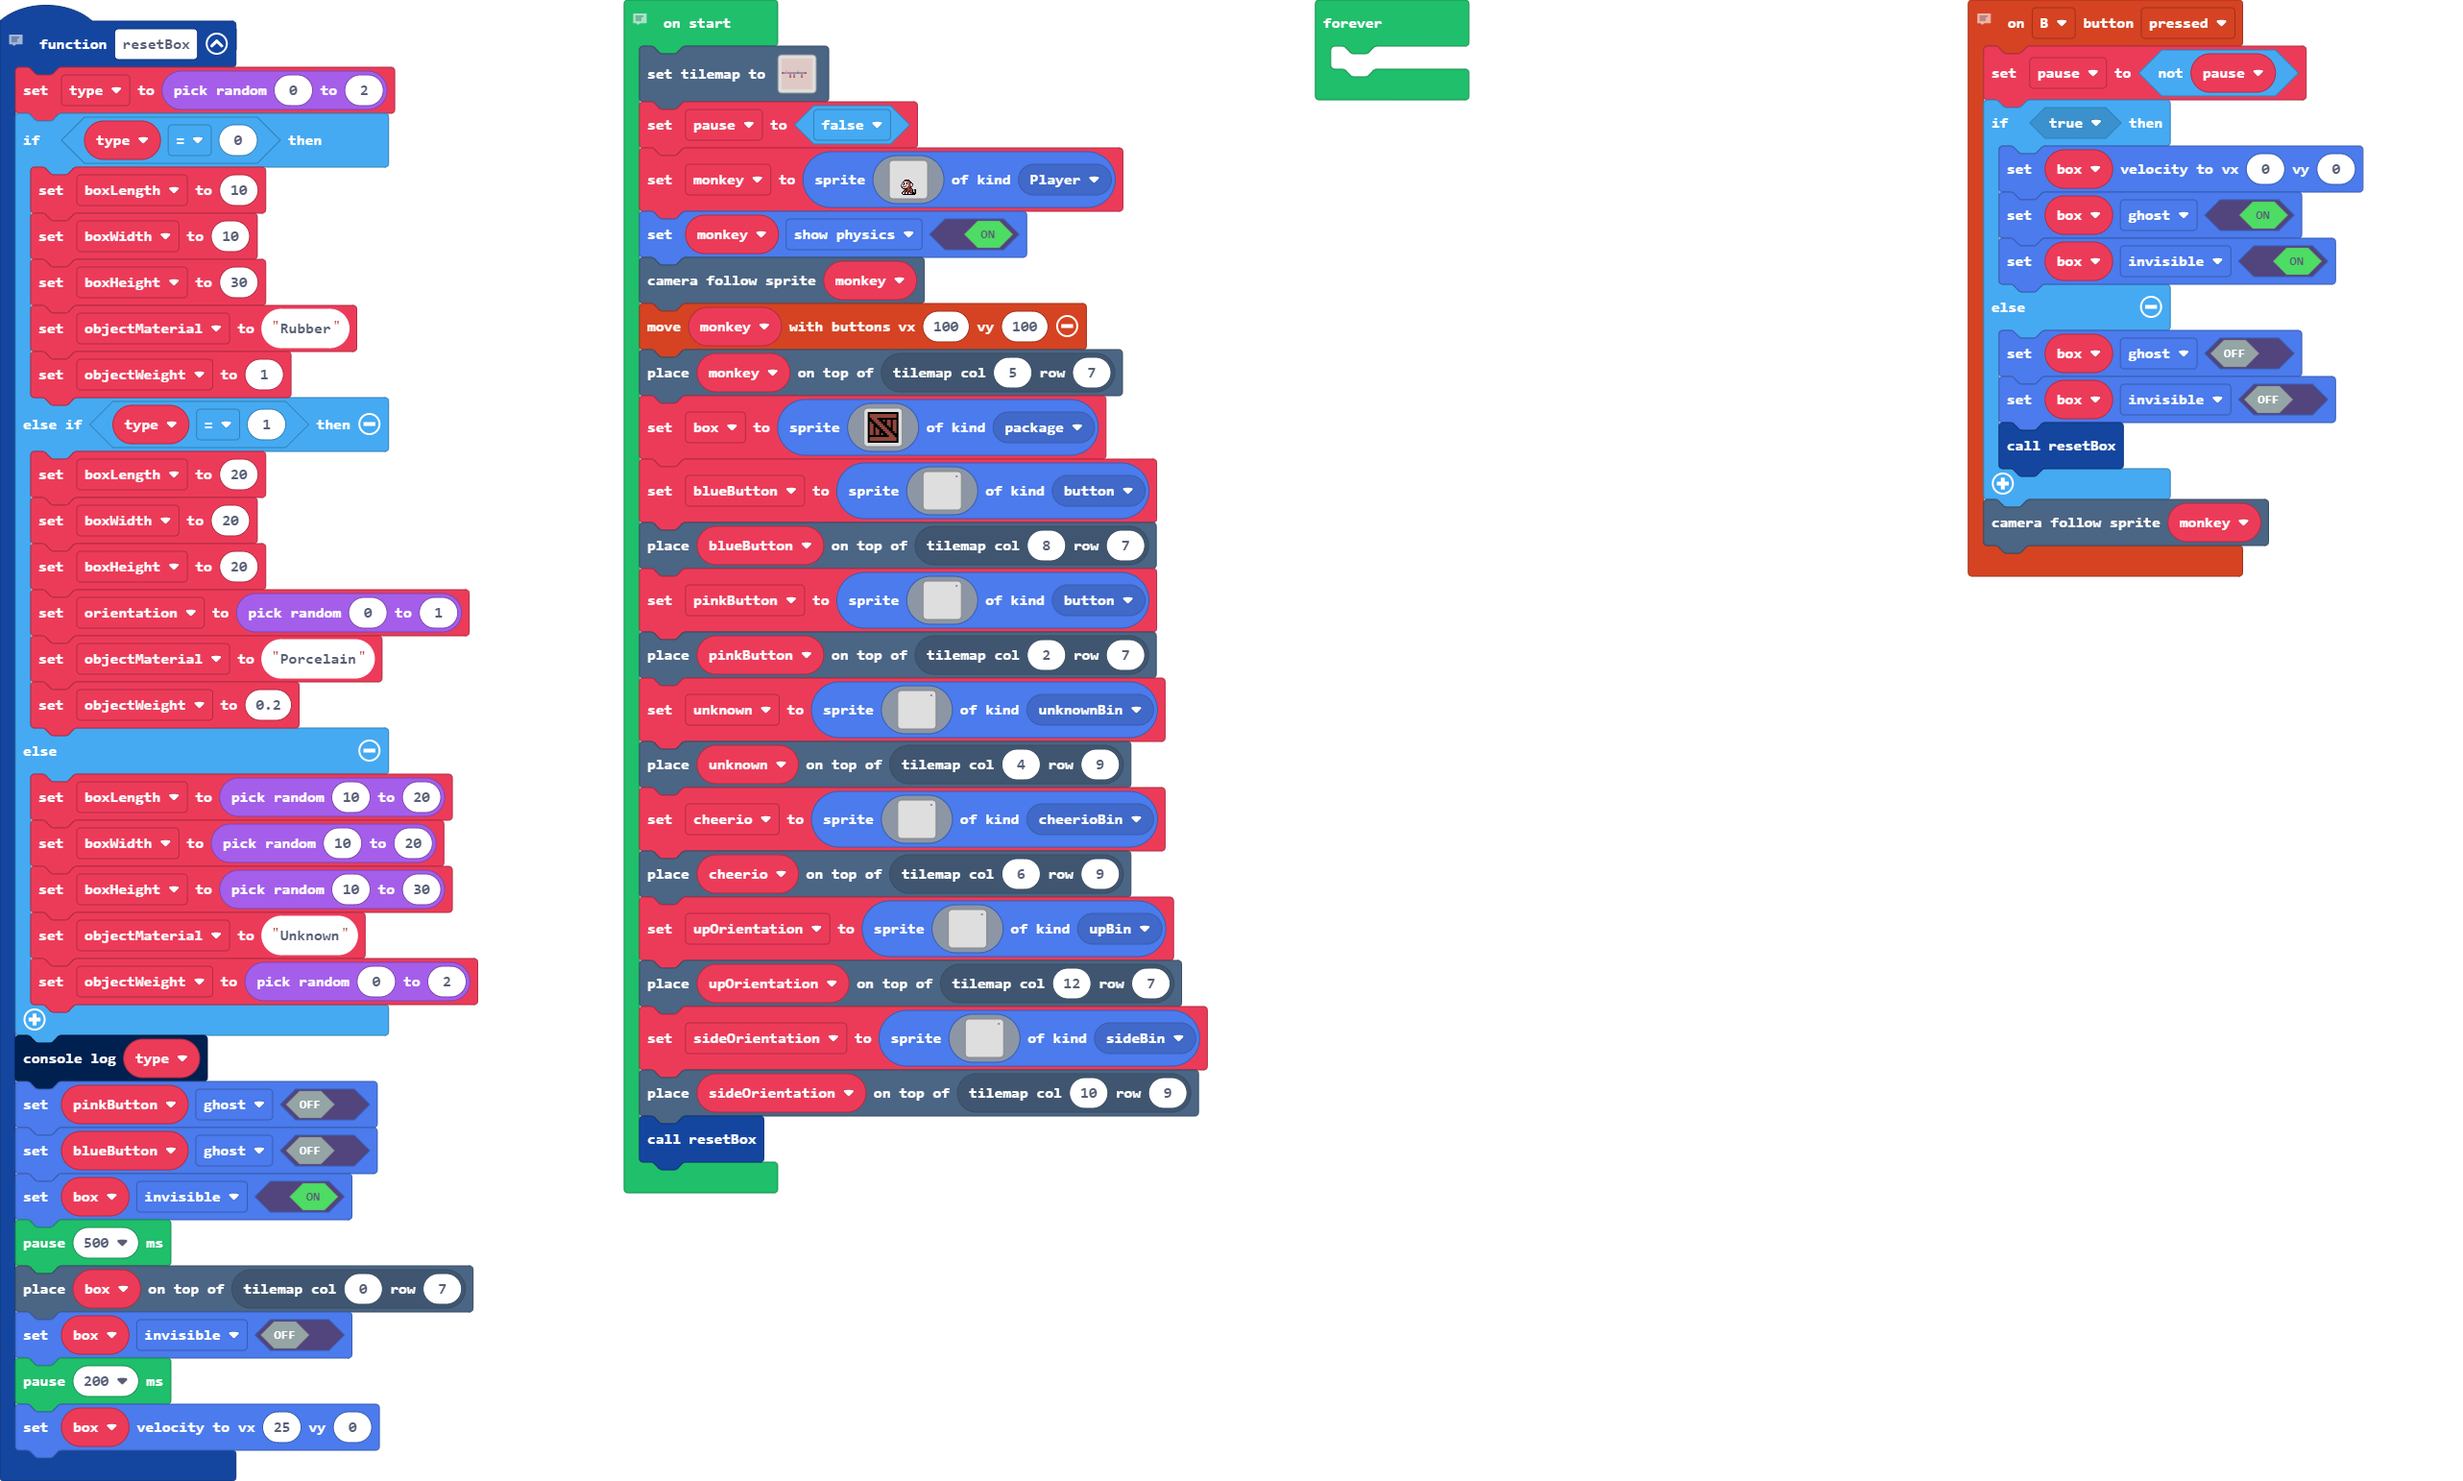
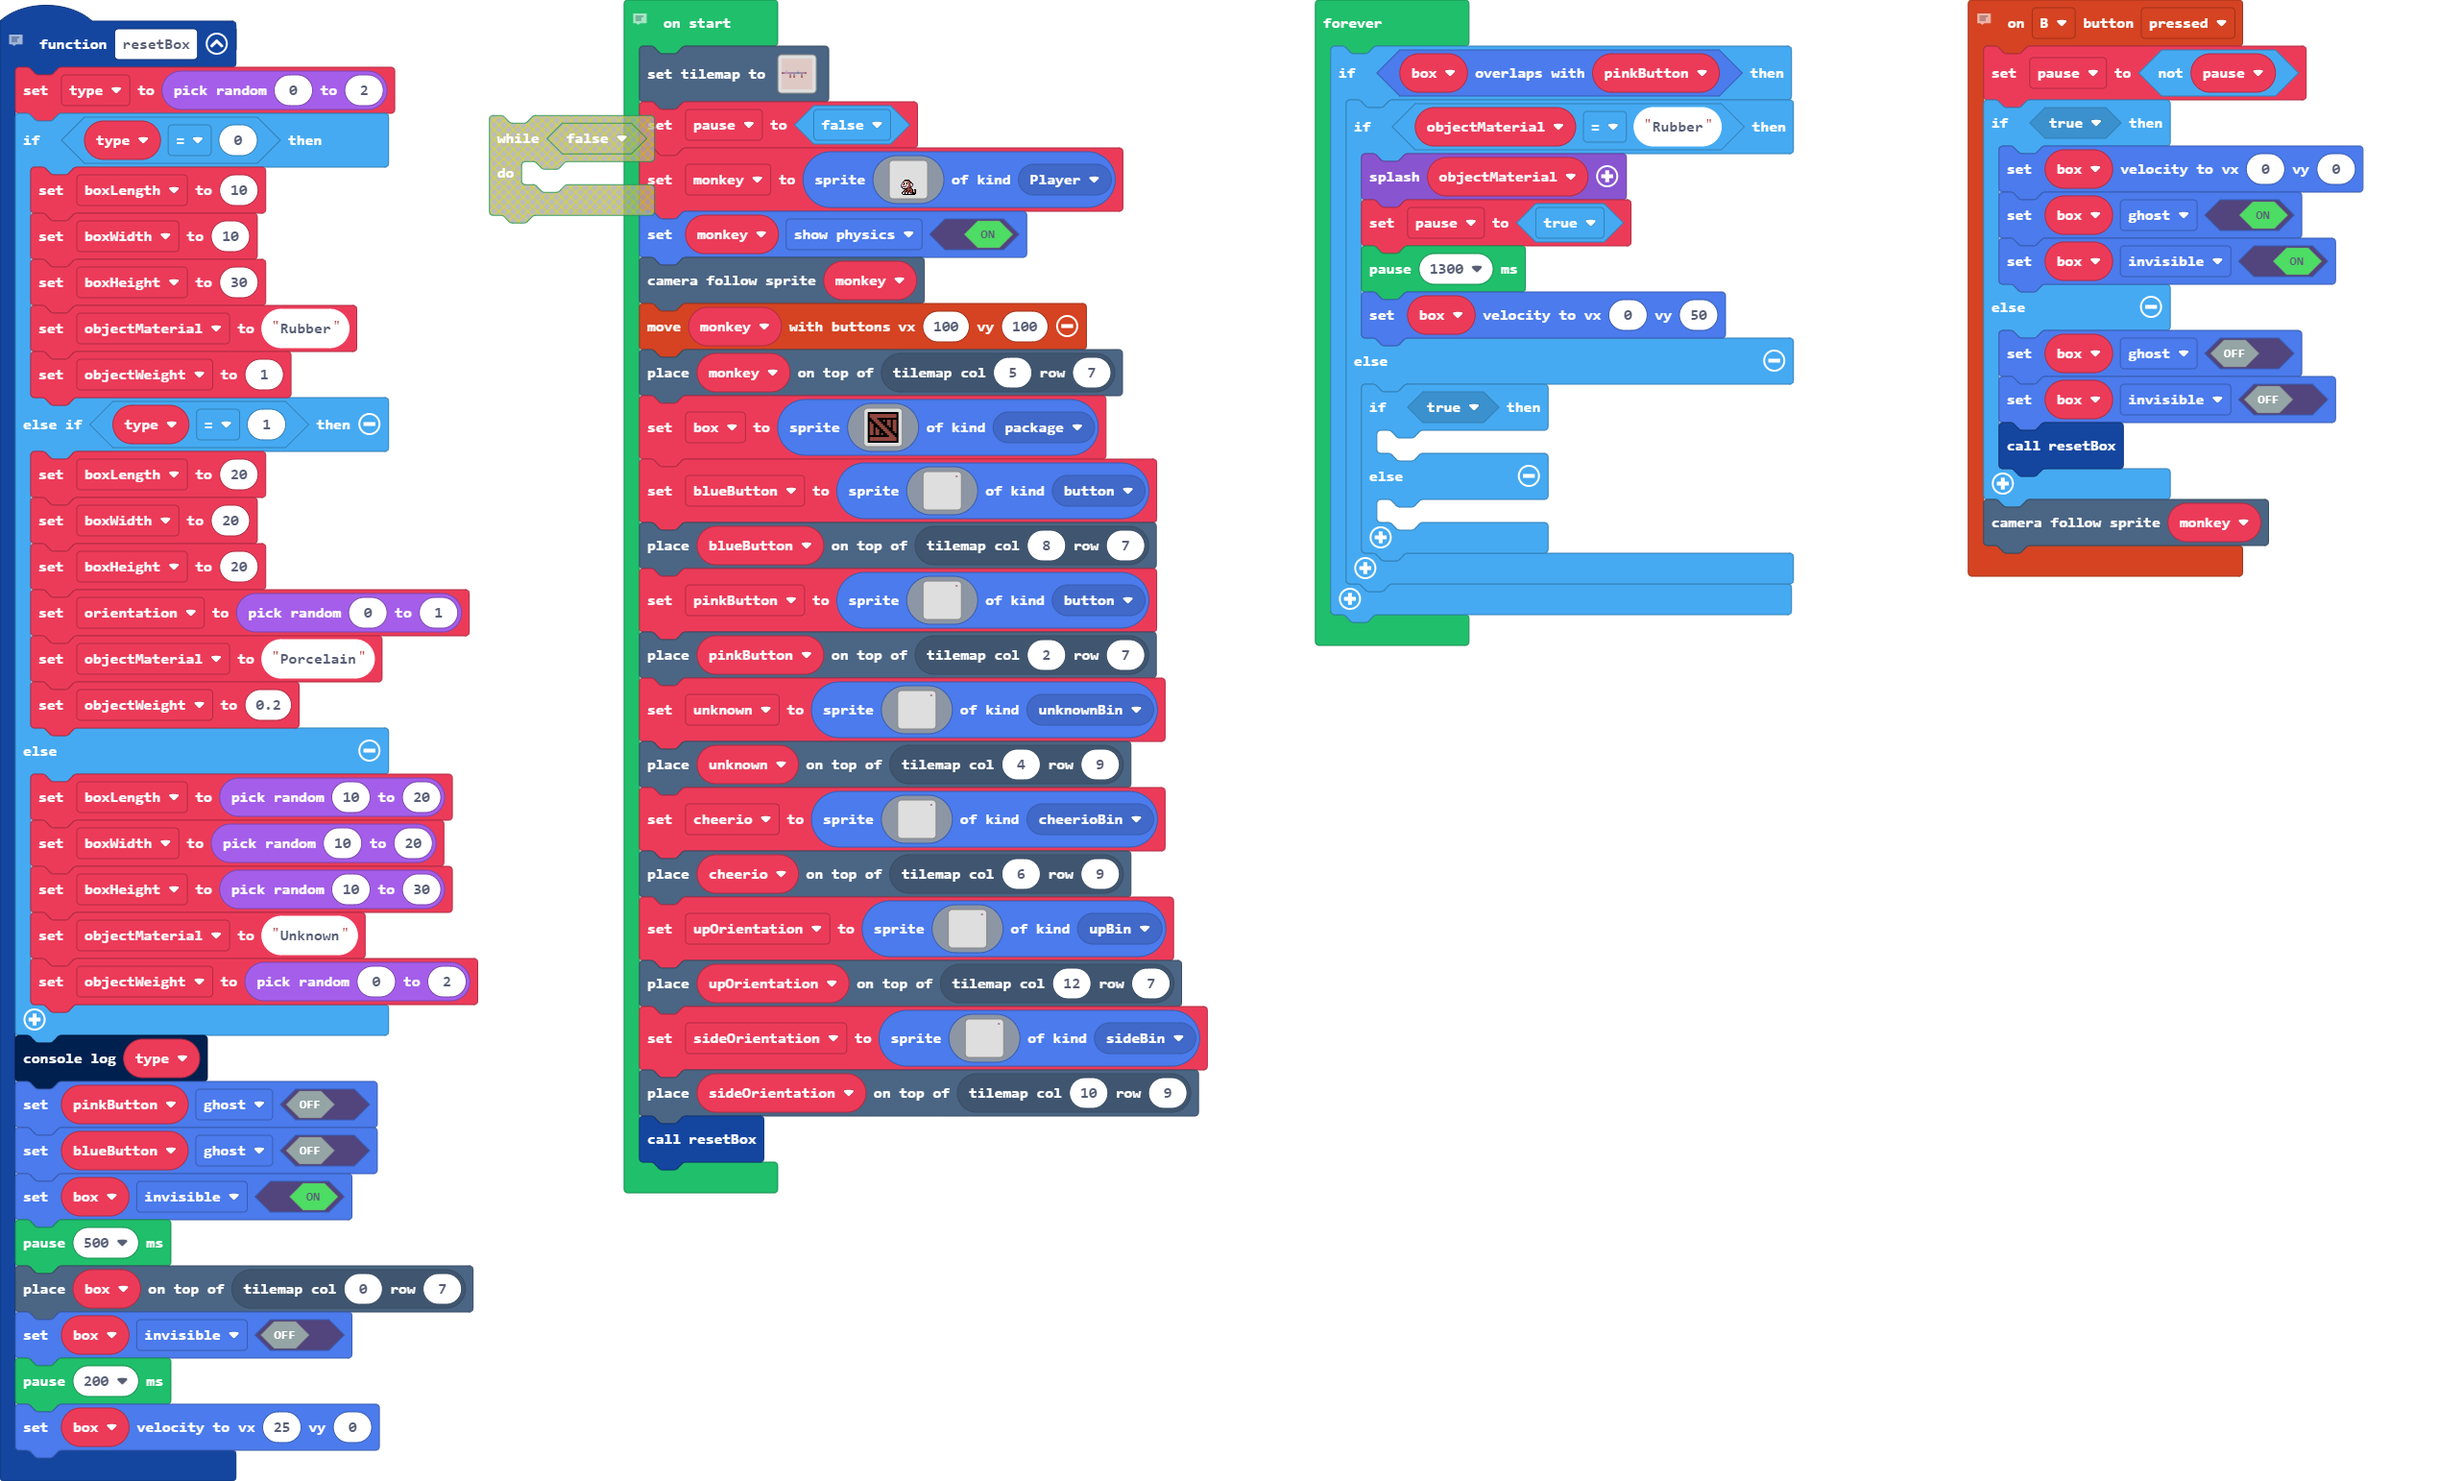
Update main.blocks, main.ts, tilemap.g.jres, tilemap.g.ts

Changed region(s): [[0.5302, 0.0311, 0.7485, 0.4358], [0.1871, 0.0623, 0.2807, 0.1556]]

diff --git a/tilemap.g.ts b/tilemap.g.ts
@@ -7,5 +7,29 @@ namespace myTiles {
     //% fixedInstance jres blockIdentity=images._tile
     export const tile2 = image.ofBuffer(hex``);
 
+    helpers.registerTilemapFactory(function(name: string) {
+        switch(helpers.stringTrim(name)) {
+            case "level": return tiles.createTilemap(hex`1000100004040404040404040404040404040404040404040404040404040404040404040404040404040404040404040404040404040404040404040404040404040404040404040404040404040404040404040404040404040404040404040404040404040704040404040704040404040404080105010901090106010901030404040404040402040204040402040404040404040404030403040404030404040404040404040404040404040404040404040404040404040404040404040404040404040404040404040404040404040404040404040404040404040404040404040404040404040404040404040404040404040404040404040404040404040404`, img`
+. . . . . . . . . . . . . . . . 
+. . . . . . . . . . . . . . . . 
+. . . . . . . . . . . . . . . . 
+. . . . . . . . . . . . . . . . 
+. . . . . . . . . . . . . . . . 
+. . . . . . . . . . . . . . . . 
+. . . . . . . . . . . . . . . . 
+. . . . . . . . . . . . . . . . 
+. . . . . . . . . . . . . . . . 
+. . . . . . . . . . . . . . . . 
+. . . . . . . . . . . . . . . . 
+. . . . . . . . . . . . . . . . 
+. . . . . . . . . . . . . . . . 
+. . . . . . . . . . . . . . . . 
+. . . . . . . . . . . . . . . . 
+. . . . . . . . . . . . . . . . 
+`, [myTiles.transparency16,sprites.vehicle.roadHorizontal,sprites.vehicle.roadVertical,sprites.dungeon.chestClosed,sprites.dungeon.floorLight2,sprites.dungeon.buttonPink,sprites.dungeon.buttonTeal,myTiles.tile1,sprites.dungeon.chestOpen,myTiles.tile2], TileScale.Sixteen)
+        }
+        return null;
+    })
+
 }
 // Auto-generated code. Do not edit.

diff --git a/main.ts b/main.ts
@@ -259,5 +259,18 @@ let sideOrientation = sprites.create(img`
 tiles.placeOnTile(sideOrientation, tiles.getTileLocation(10, 9))
 resetBox()
 forever(function () {
-	
+    if (box.overlapsWith(pinkButton)) {
+        if (objectMaterial == "Rubber") {
+            game.splash(objectMaterial)
+            pause2 = true
+            pause(1300)
+            box.setVelocity(0, 50)
+        } else {
+            if (true) {
+            	
+            } else {
+            	
+            }
+        }
+    }
 })
